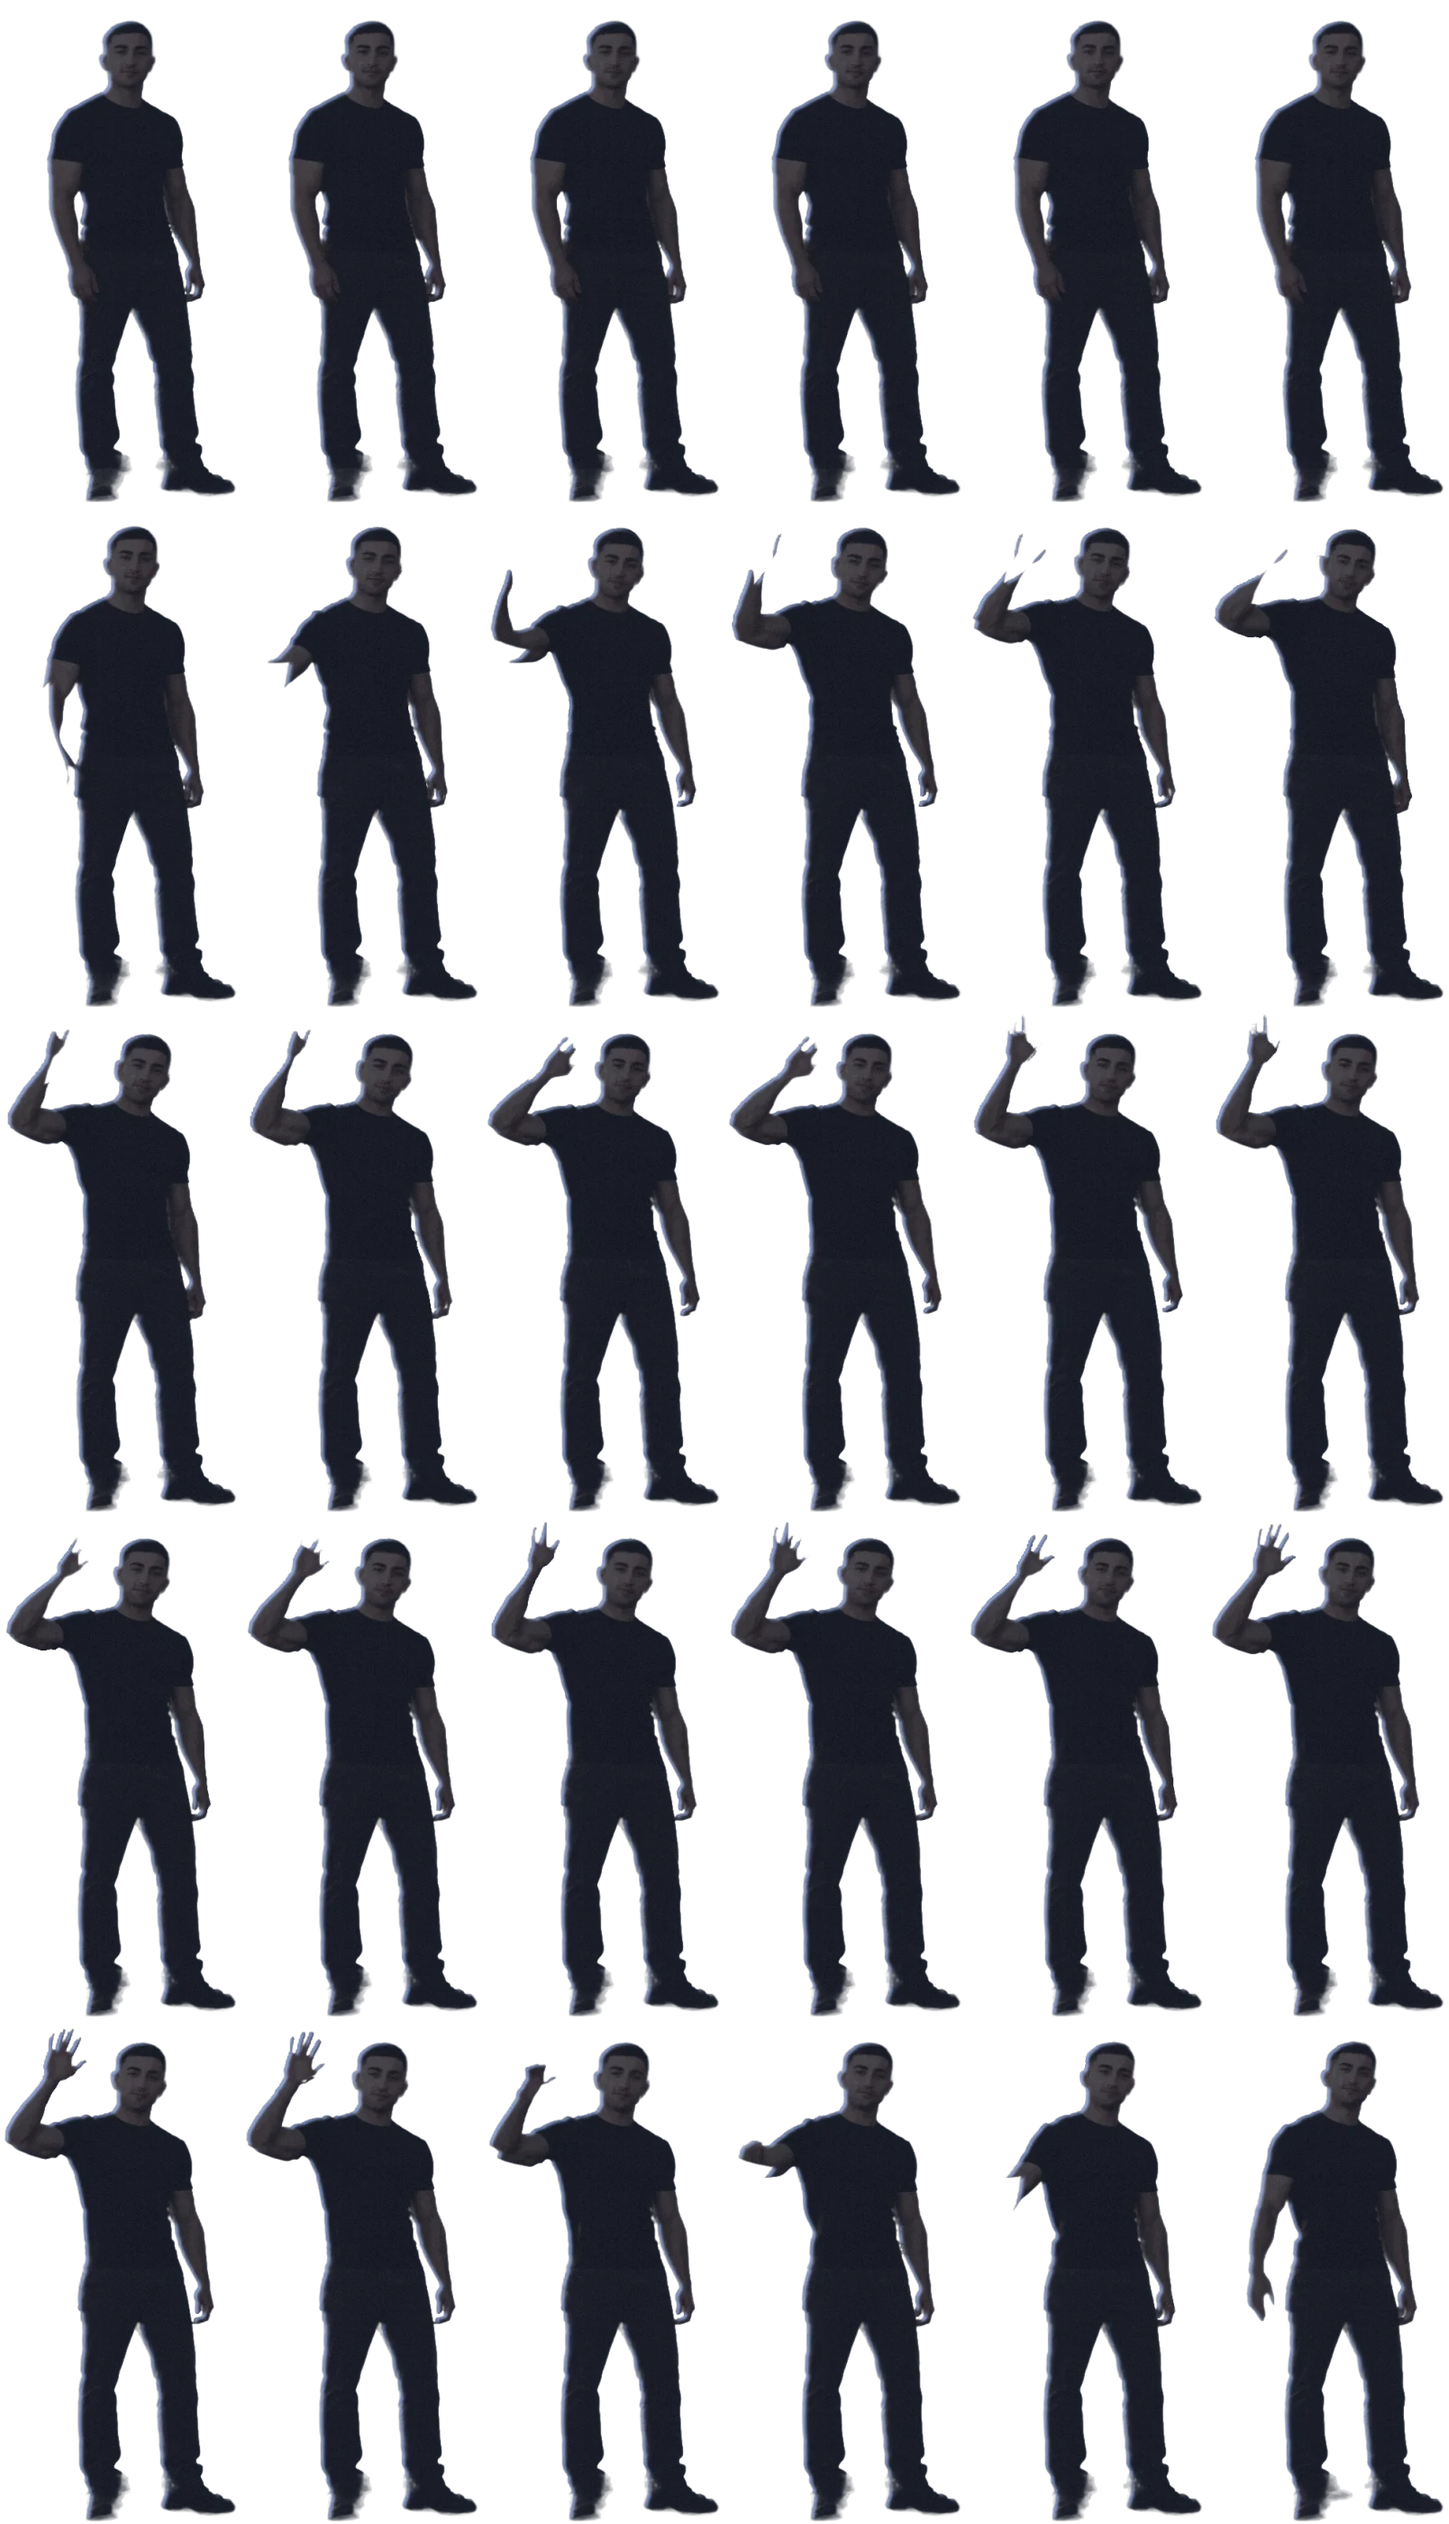
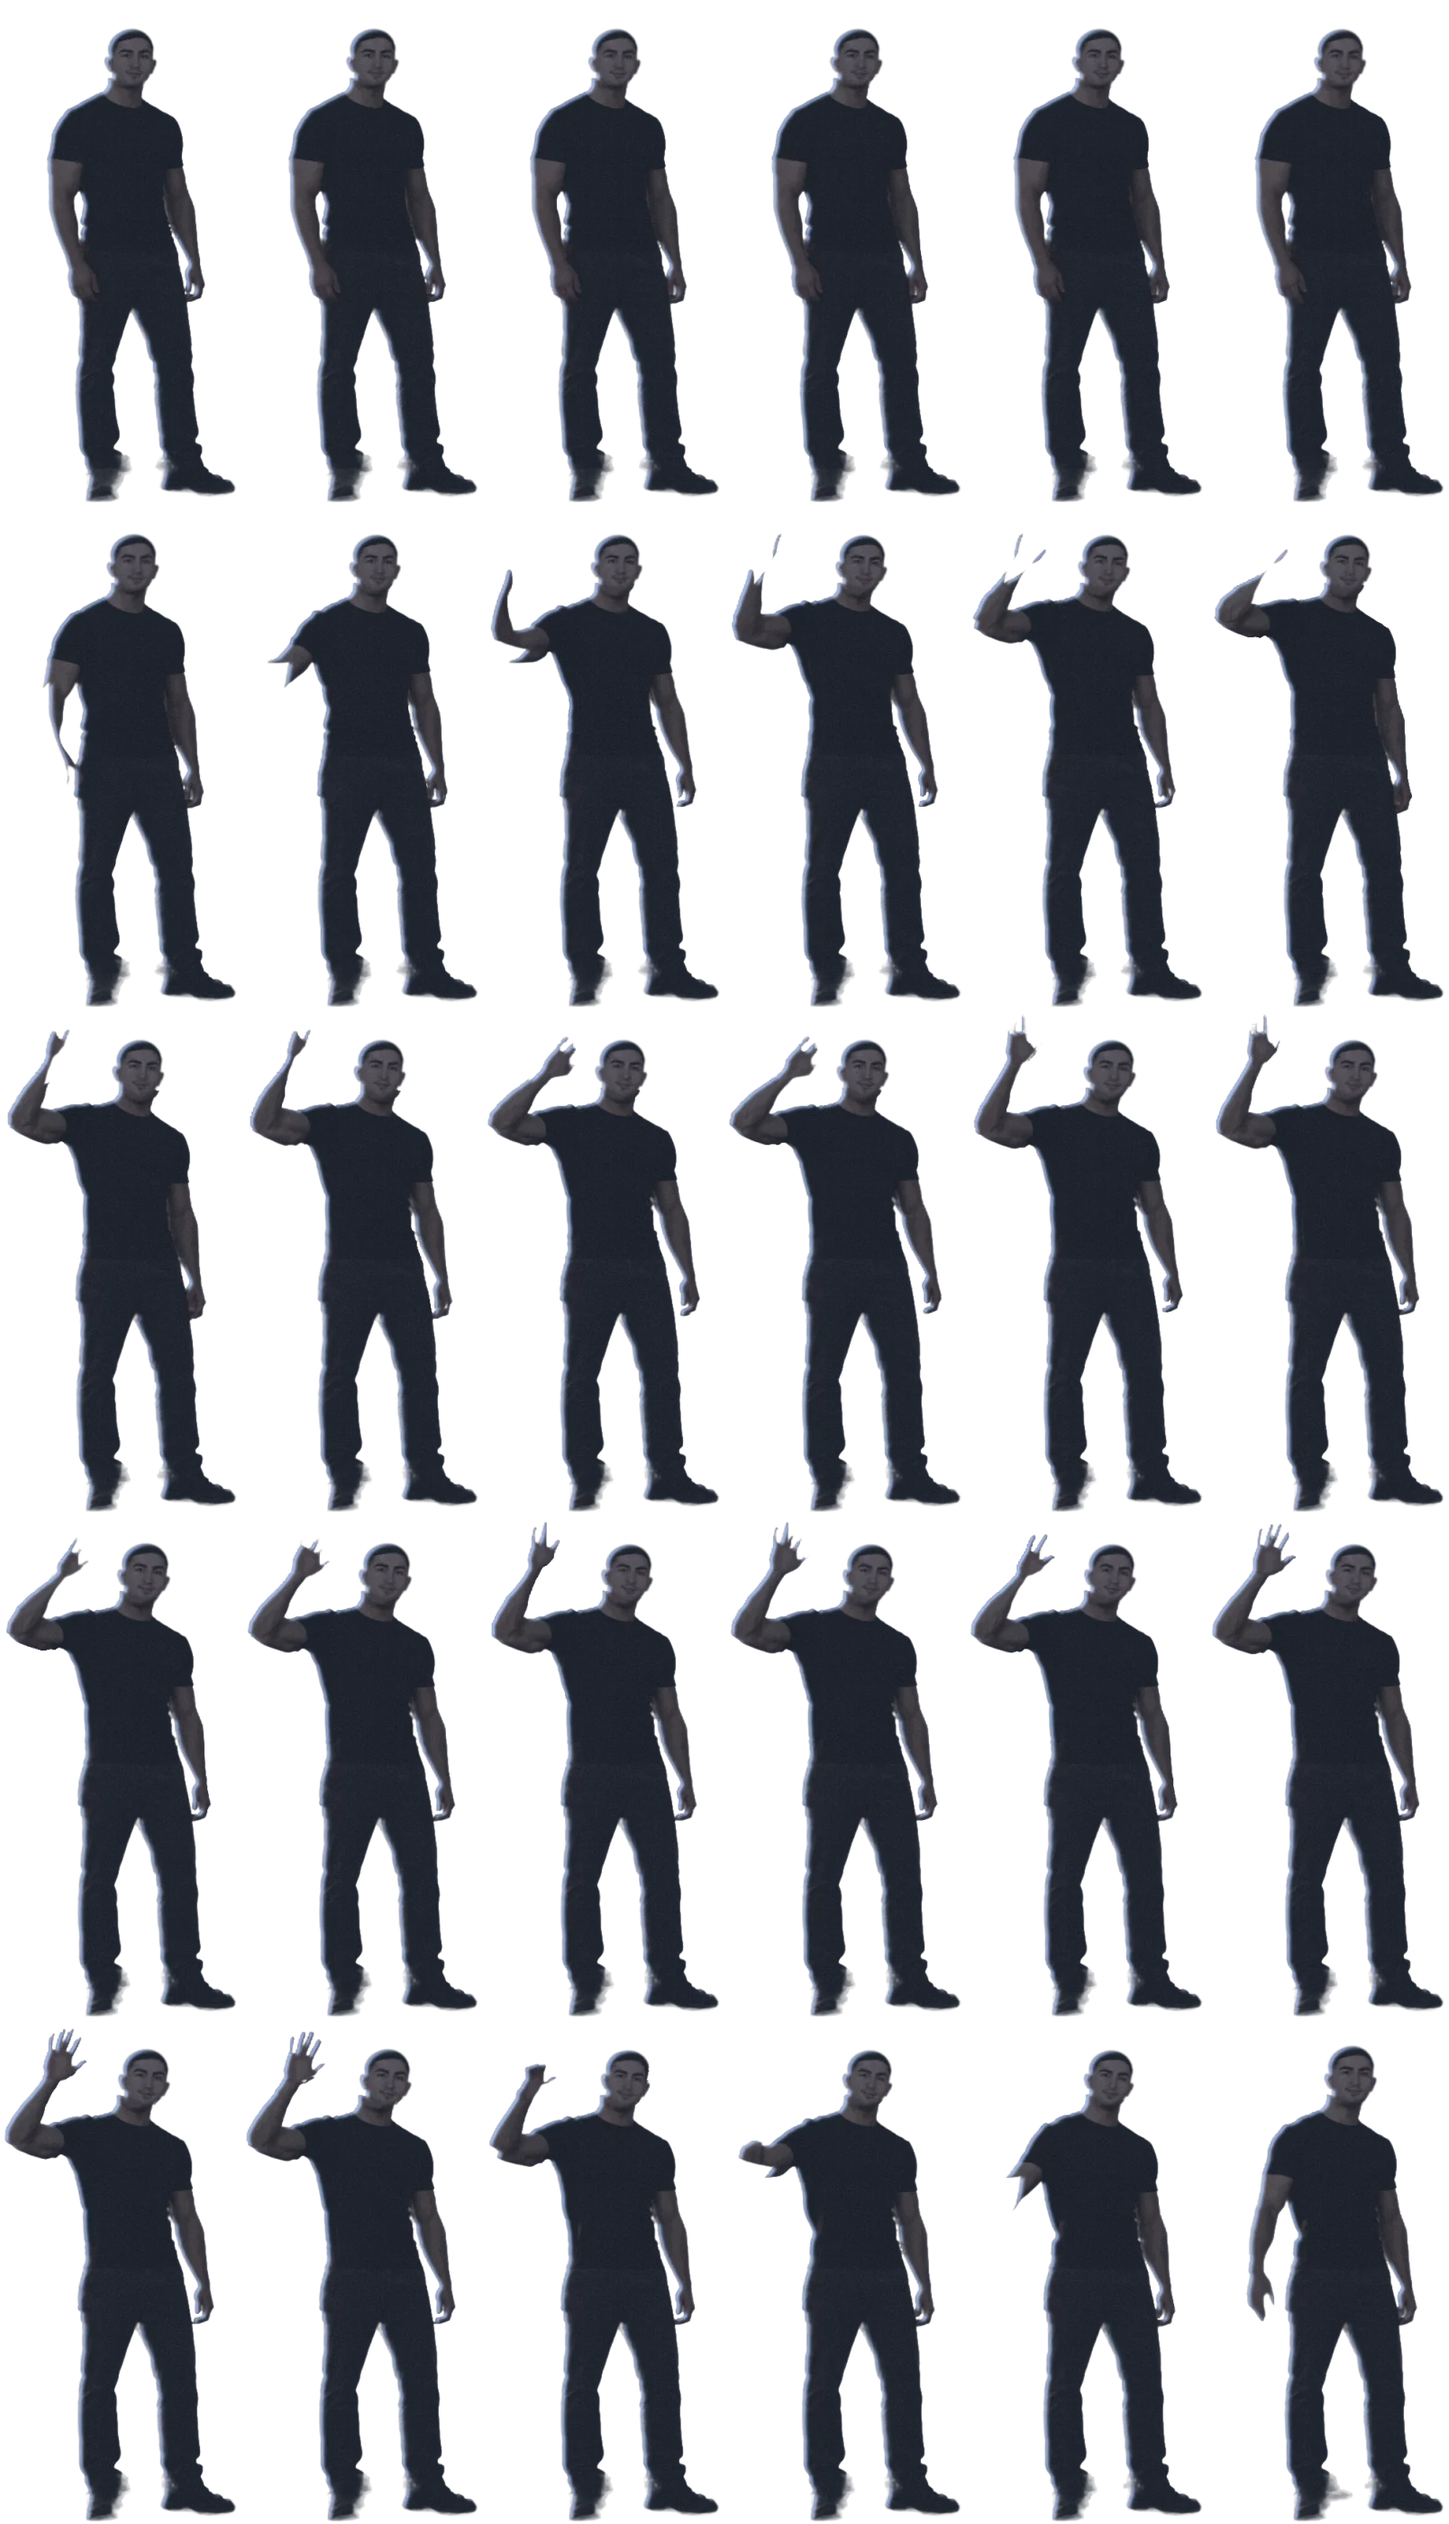
Titelbild: echtes Gesicht aus dem Studiofoto, realistisches Licht, fester Stand auf der Wiese, flüssiges Winken

diff --git a/js/szene.js b/js/szene.js
@@ -520,22 +520,26 @@
      je Figur ein Tag- und ein Abendbild und für die Nacht die Bildfolge – der Hund hebt den Kopf und jault, Emre winkt
      („Tschüss“). Beides startet gemeinsam, sobald es Nacht ist und man weiterscrollt, und läuft dann in eigener Zeit ab
      (so sieht man es sicher, bevor endo Studio kommt); beim Hochscrollen läuft es rückwärts. */
-  var FIGUREN = { hund: { b: 318, h: 360, anzahl: 36, spalten: 6, fuss: 0.9921, oben: 0.0896, mitte: 0.4198, breite: 0.7704 }, emre: { b: 268, h: 560, anzahl: 30, spalten: 6, fuss: 0.9914, oben: 0.0416, mitte: 0.5821, breite: 0.7687 } };
-  var fig = { phase: 0, ziel: 0, laeuft: false, t: 0 }, FIG_DAUER = 3.2, lichtGold = 0, lichtNacht = 0;
+  var FIGUREN = { hund: { b: 318, h: 360, anzahl: 36, spalten: 6, fuss: 0.9921, oben: 0.0896, mitte: 0.4198, breite: 0.7704 }, emre: { b: 268, h: 560, anzahl: 30, spalten: 6, fuss: 0.9914, oben: 0.0574, mitte: 0.5821, breite: 0.7687 } };
+  var fig = { phase: 0, ziel: 0, laeuft: false, t: 0 }, FIG_DAUER = 3.6, lichtGold = 0, lichtNacht = 0;
   function figurLaden(name, licht) {
     var f = FIGUREN[name], b = new Image(); b.decoding = 'async';
     b.onload = function () { f.bilder[licht] = b; f.zuletzt = ''; figurenZeichnen(); };
-    b.src = 'bilder/hero/figuren/' + name + '-' + licht + '.webp?v=1';
+    b.src = 'bilder/hero/figuren/' + name + '-' + licht + '.webp?v=2';
   }
   Object.keys(FIGUREN).forEach(function (k) { FIGUREN[k].bilder = {}; FIGUREN[k].zuletzt = ''; figurLaden(k, 'tag'); figurLaden(k, 'gold'); });
   /* die Nacht-Bildfolgen (größer) erst nach dem Laden der Seite */
   function nachtLaden() { Object.keys(FIGUREN).forEach(function (k) { figurLaden(k, 'nacht'); }); }
   if (document.readyState === 'complete') setTimeout(nachtLaden, 200); else window.addEventListener('load', function () { setTimeout(nachtLaden, 200); });
+  /* nr darf gebrochen sein: zwischen zwei Einzelbildern wird weich überblendet (additiv, dadurch ohne Geisterbild) */
   function figurZeichnen(f, nr) {
     var c = f.leinwand; if (!c || !f.bilder.tag) return;
     if (!f.bilder.nacht) nr = 0;
-    var gold = f.bilder.gold ? lichtGold : 0, nacht = f.bilder.nacht ? (nr > 0 ? 1 : lichtNacht) : 0;
-    var schluessel = nr + '|' + gold.toFixed(2) + '|' + nacht.toFixed(2);
+    var n0 = Math.floor(nr), t = Math.round((nr - n0) * 12) / 12, n1 = Math.min(f.anzahl - 1, n0 + 1);
+    var gold = f.bilder.gold ? lichtGold : 0;
+    /* läuft die Bewegung, gilt für die Figuren das Nachtlicht (die Bildfolge gibt es nur nachts) – weich angehoben */
+    var nacht = f.bilder.nacht ? Math.max(lichtNacht, sanft(0, 0.12, fig.phase)) : 0;
+    var schluessel = n0 + '|' + t + '|' + gold.toFixed(2) + '|' + nacht.toFixed(2);
     if (schluessel === f.zuletzt) return;
     f.zuletzt = schluessel;
     var g = c.getContext('2d'); g.setTransform(1, 0, 0, 1, 0, 0); g.clearRect(0, 0, c.width, c.height); g.globalAlpha = 1;
@@ -544,13 +548,19 @@
       if (gold > 0.002) { g.globalAlpha = gold; g.drawImage(f.bilder.gold, 0, 0, c.width, c.height); }
     }
     if (nacht > 0.002) {
-      g.globalAlpha = nacht;
-      g.drawImage(f.bilder.nacht, (nr % f.spalten) * f.b, Math.floor(nr / f.spalten) * f.h, f.b, f.h, 0, 0, c.width, c.height);
+      var z = f.zwischen || (f.zwischen = document.createElement('canvas'));
+      if (z.width !== c.width || z.height !== c.height) { z.width = c.width; z.height = c.height; }
+      var zg = z.getContext('2d'); zg.globalCompositeOperation = 'source-over'; zg.globalAlpha = 1; zg.clearRect(0, 0, z.width, z.height);
+      zg.globalAlpha = 1 - t; zg.drawImage(f.bilder.nacht, (n0 % f.spalten) * f.b, Math.floor(n0 / f.spalten) * f.h, f.b, f.h, 0, 0, z.width, z.height);
+      if (t > 0) { zg.globalCompositeOperation = 'lighter'; zg.globalAlpha = t; zg.drawImage(f.bilder.nacht, (n1 % f.spalten) * f.b, Math.floor(n1 / f.spalten) * f.h, f.b, f.h, 0, 0, z.width, z.height); }
+      g.globalAlpha = nacht; g.drawImage(z, 0, 0);
     }
     g.globalAlpha = 1;
   }
   function figurenZeichnen() {
-    Object.keys(FIGUREN).forEach(function (k) { var f = FIGUREN[k]; figurZeichnen(f, Math.round(fig.phase * (f.anzahl - 1))); });
+    /* sanft anfahren und auslaufen, wie eine echte Bewegung */
+    var e = fig.phase * fig.phase * (3 - 2 * fig.phase);
+    Object.keys(FIGUREN).forEach(function (k) { var f = FIGUREN[k]; figurZeichnen(f, e * (f.anzahl - 1)); });
   }
   function figStart(z) {
     if (fig.ziel === z) return;
@@ -575,32 +585,44 @@
     var hx = xVon(m.hundU), abstand = stand * 0.1;
     var ex = hx + hw * H.breite * 0.5 + abstand + ew * E.breite * 0.5;
     if (ex + ew * E.breite * 0.5 > m.W - 8) ex = hx - hw * H.breite * 0.5 - abstand - ew * E.breite * 0.5;
-    var sinken = stand * 0.03;   /* Füße stehen ein wenig im Gras */
+    /* nicht auf der Kammlinie (dort wirkt man schwebend), sondern ein Stück davor auf der Wiesenfläche –
+       beide auf derselben Höhe = gleiche Entfernung; die Füße stehen ein wenig im Gras */
+    var boden = Math.max(ky('wiese', hx - hw * 0.3), ky('wiese', hx + hw * 0.3), ky('wiese', ex - ew * 0.2), ky('wiese', ex + ew * 0.2)) + m.H * 0.022;
+    var sinken = stand * 0.025;
     [[H, hx, hw, hh], [E, ex, ew, eh]].forEach(function (z) {
-      var f = z[0], x = z[1] - z[2] * f.mitte, y = ky('wiese', z[1]) + sinken - z[3] * f.fuss;
+      var f = z[0], x = z[1] - z[2] * f.mitte, y = boden + sinken - z[3] * f.fuss;
       var c = f.leinwand || document.createElement('canvas');
       c.className = 'szene__hund'; c.width = Math.ceil(z[2] * m.q); c.height = Math.ceil(z[3] * m.q);
       c.style.left = x + 'px'; c.style.top = y + 'px'; c.style.width = z[2] + 'px'; c.style.height = z[3] + 'px';
       if (f === E) huelle.insertBefore(c, huelle.firstChild); else huelle.appendChild(c);
       f.leinwand = c; f.zuletzt = '';
-      f.fussX = z[1]; f.fussB = z[2] * f.breite; f.fussY = ky('wiese', z[1]) + sinken;
+      f.fussX = z[1]; f.fussB = z[2] * f.breite; f.fussY = boden + sinken * 0.4; f.stand = z[3] * (f.fuss - f.oben);
     });
     return huelle;
   }
   /* vor den Füßen: weicher Kontaktschatten und ein paar Halme in den Farben der Wiese */
   function fussgras(huelle, licht) {
     var p = F.wiese[licht], r = zufall(4242), oben = m.H, unten = 0;
-    Object.keys(FIGUREN).forEach(function (k) { var f = FIGUREN[k]; oben = Math.min(oben, f.fussY - m.H * 0.05); unten = Math.max(unten, f.fussY + m.H * 0.02); });
+    Object.keys(FIGUREN).forEach(function (k) { var f = FIGUREN[k]; oben = Math.min(oben, f.fussY - m.H * 0.05); unten = Math.max(unten, f.fussY + m.H * 0.07); });
     var c = document.createElement('canvas'), q = m.q;
     c.width = Math.ceil(m.W * q); c.height = Math.ceil((unten - oben) * q);
     c.style.top = oben + 'px'; c.style.height = (unten - oben) + 'px'; c.className = 'szene__bild'; c.setAttribute('data-licht', licht);
     var g = c.getContext('2d'); g.setTransform(q, 0, 0, q, 0, -oben * q);
     Object.keys(FIGUREN).forEach(function (k) {
       var f = FIGUREN[k], w = f.fussB;
-      var sg = g.createRadialGradient(f.fussX, f.fussY, 0, f.fussX, f.fussY, w * 0.62);
-      sg.addColorStop(0, 'rgba(0,0,0,' + (licht === 'nacht' ? 0.45 : 0.32) + ')'); sg.addColorStop(1, 'rgba(0,0,0,0)');
-      g.save(); g.translate(f.fussX, f.fussY); g.scale(1, 0.22); g.translate(-f.fussX, -f.fussY);
+      /* Kontaktschatten direkt unter den Füßen … */
+      var sg = g.createRadialGradient(f.fussX, f.fussY, 0, f.fussX, f.fussY, w * 0.6);
+      sg.addColorStop(0, 'rgba(0,0,0,' + (licht === 'nacht' ? 0.5 : 0.4) + ')'); sg.addColorStop(1, 'rgba(0,0,0,0)');
+      g.save(); g.translate(f.fussX, f.fussY); g.scale(1, 0.2); g.translate(-f.fussX, -f.fussY);
       g.fillStyle = sg; g.fillRect(f.fussX - w, f.fussY - w, w * 2, w * 2); g.restore();
+      /* … und der Schlagschatten in Lichtrichtung: Abendsonne hinten → Schatten fällt nach vorn (zum Betrachter),
+         Mond links oben → nach rechts, Mittagssonne → kurz */
+      var sl = f.stand * (licht === 'gold' ? 0.5 : (licht === 'nacht' ? 0.55 : 0.2)), sw = w * 0.42;
+      var dx = licht === 'nacht' ? sl : sl * 0.1, dy = licht === 'nacht' ? sl * 0.12 : (licht === 'gold' ? sl * 0.3 : sl * 0.15);
+      g.save(); g.translate(f.fussX, f.fussY); g.rotate(Math.atan2(dy, dx)); 
+      var lg = g.createLinearGradient(0, 0, Math.hypot(dx, dy), 0);
+      lg.addColorStop(0, 'rgba(0,0,0,' + (licht === 'nacht' ? 0.3 : 0.26) + ')'); lg.addColorStop(1, 'rgba(0,0,0,0)');
+      g.fillStyle = lg; g.beginPath(); g.ellipse(Math.hypot(dx, dy) * 0.45, 0, Math.hypot(dx, dy) * 0.55, sw * 0.5, 0, 0, Math.PI * 2); g.fill(); g.restore();
       for (var i = 0; i < 26; i++) {
         var x = f.fussX + (r() - 0.5) * w * 1.25, h = m.H * (0.008 + r() * 0.016);
         halm(g, x, f.fussY + r() * m.H * 0.006, h, (r() - 0.5) * 0.8, 1.1, p.halm[Math.floor(r() * 4)], p.kante, p.kanteA * naehe(licht, x) * (licht === 'tag' ? 0.5 : 1));
@@ -813,7 +835,7 @@
     var pz = p / ZEIT;
     if (!isNaN(festP)) { fig.phase = sanft(0.4, 0.58, pz); figurenZeichnen(); }
     else if (ruhig) { fig.phase = pz > 0.42 ? 1 : 0; }
-    else if (pz > 0.38) figStart(1); else if (pz < 0.3) figStart(0);
+    else if (pz > 0.35) figStart(1); else if (pz < 0.28) figStart(0);
     /* Sonne, Mond, Licht und Hund folgen einem weich nachgeführten Wert – keine Sprünge bei Mausrad-Schritten */
     ziel = p;
     if (immer || ruhig || !isNaN(festP)) { weich = p; licht(weich); }

diff --git a/index.html b/index.html
@@ -701,7 +701,7 @@ img { display: block; max-width: 100%; height: auto; }
   </nav>
 </footer>
 
-<script src="js/szene.js?v=18"></script>
+<script src="js/szene.js?v=19"></script>
 <script>
 /* Navigation beim Runterscrollen ausblenden, Inhalte einmal sanft einblenden */
 (function () {

diff --git a/LIESMICH.md b/LIESMICH.md
@@ -11,6 +11,12 @@
 
 
 
+
+## Figuren: echter Kopf, Licht, Stand, Überblendung (26.09.2026, 03:30, Claude Code)
+- `figuren.py winken`: Kopf aus `bilder/hero/4k/emre-ausschnitt.png` (Studiokopf), per Körperumriss auf Bild 0 gesetzt (Maßstab mit bester Deckung), dann Kopfbewegung des Videos Bild 0 → i per SIFT (Ähnlichkeit). In der Kopfzone gilt nur der echte Umriss; Hand = Videobild außerhalb des Video-Kopfumrisses links vom Kopf. Masken-Zwischenspeicher `video/winken-masken-*.npz`.
+- `figuren_stil.py`: neue Lichtwerte (Tag 0,86 · Abend 0,5 Gegenlicht · Nacht 0,24). Bilder `?v=2`.
+- `js/szene.js` (`?v=19`): gemeinsamer Boden = tiefster Kammpunkt unter beiden + 2,2 % Bildhöhe; Schlagschatten je Licht; `figurZeichnen()` blendet gebrochene Bildnummern additiv über (Zwischenleinwand), Phase mit smoothstep, `FIG_DAUER` 3,6 s, Start p/ZEIT > 0,35 (zurück < 0,28).
+
 ## Emre + Hund als echte Figuren, Winken (26.09.2026, 02:30, Claude Code)
 - `bilder/hero/4k/szene2/figuren.py` (+ `figuren_stil.py`): erzeugt `bilder/hero/figuren/{hund,emre}-{tag,gold}.webp` (Bild 0) und `-nacht.webp` (Raster 6 Spalten: Hund 36 Bilder 318×360, Emre 30 Bilder 268×560) + `.json` (Zelle, Fußlinie `fuss`, Kopflinie `oben`, `mitte`, `breite`). Hund: Farbbilder aus `video/v1-9493b609.mp4` + Masken aus `hund-film/`. Emre: `python figuren.py winken video/winken-v2-ca4f3250.mp4 0.4 3.9` – isnet-Freistellung, echter Kopf aus b305a018 per SIFT (nur Ähnlichkeitstransformation), Hand bleibt davor, weiße Bewegungsränder raus.
 - `js/szene.js` (`?v=18`): `FIGUREN` (Werte aus den json), `figurenStellen()` (nebeneinander auf `ky('wiese')`, Emre = 1,95 × Hundehöhe), `fussgras()` (Schatten + Halme je Licht), `figurZeichnen()` (Tag/Abend/Nacht überblenden, Nachtbild = Bildnummer), `figStart()/figLauf()` (Phase 0–1 in 3,2 s, Start bei p/ZEIT > 0,38, zurück < 0,3; mit `?p=` gescrubbt). Hülle `.szene__figuren` (z-index 1) über den Wiesen-Fassungen. Alte Silhouetten (`hund-steht/-silhouette.webp`, `emre-silhouette.webp`) nicht mehr benutzt.
